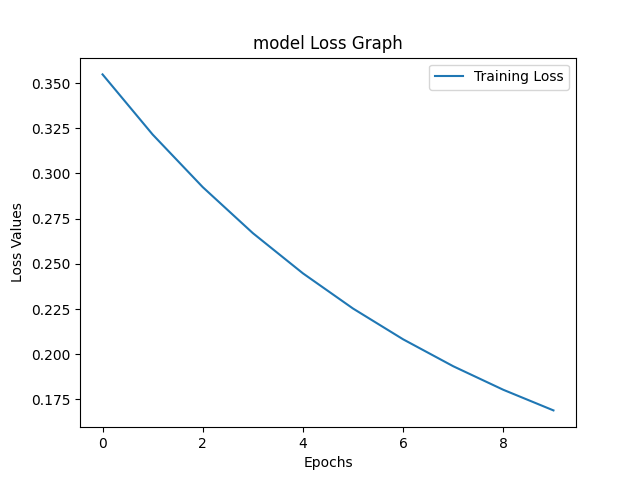
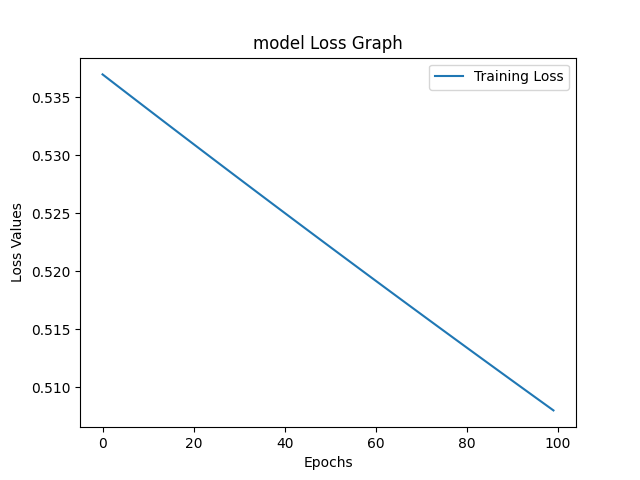
Gradient Descent and Linear Regression addition

diff --git a/Code/LinearRegression/LinearRegression.py b/Code/LinearRegression/LinearRegression.py
@@ -1,0 +1,80 @@
+import torch,warnings,os,matplotlib.pyplot as plt
+import torch.nn as nn
+
+warnings.simplefilter("ignore", UserWarning)
+
+torch.manual_seed(2)
+
+X = torch.rand((10000,3)) # Defining X 
+y = torch.rand((10000,1)) # Defining Y
+
+n_samples,n_features = X.shape
+
+inp_size = n_features
+out_size = n_samples
+
+class LinearRegression(nn.Module):
+    def __init__(self,inputDim,outputDim):
+        super(LinearRegression,self).__init__()
+
+        # Layers
+        self.layer1 = nn.Linear(inputDim, outputDim)
+        self.layer2 = nn.Linear(inputDim, outputDim)
+
+    def forward(self,x):
+        out = self.layer1(x)
+        out = self.layer2(x)
+        return out
+
+model = LinearRegression(inp_size, out_size)
+
+lr = 0.1 # learning rate
+epochs = 20
+
+loss = nn.MSELoss() 
+optimizer = torch.optim.SGD(model.parameters(),lr=lr)
+
+def train(y,loss_val = []):
+    """Train loop for our model
+
+    Args:
+        y (Tensor): Prediction labels
+        loss_val (list, optional): A list to append all the loss values. Defaults to []
+
+    Returns:
+        list: loss values for plotting
+    """
+    for epoch in range(epochs):
+        y_hat = model(X) # predictions
+        l = loss(y,y_hat) # loss calculation
+        # grad = gradients(X,Y,y_hat) # gradient calculation
+        l.backward()
+
+        # Upadting the weights
+        optimizer.step()
+
+        # Zero gradients
+        optimizer.zero_grad()
+
+        print ("epoch #",epoch)
+        print ("loss: ", l.item())
+        loss_val.append(l.item())
+    return loss_val
+
+def plotGraph( data):
+    """A funtion to plot the graph
+
+    Args:
+        data (list): An input list to plot the graph.
+    """
+    plt.plot(data, label="Training Loss")
+    plt.legend()
+    plt.title(f'model {"Loss Graph"}')
+    plt.ylabel("Loss Values")
+    plt.xlabel('Epochs')
+    plt.show(block=False)
+    plt.savefig(os.path.dirname(os.path.realpath(__file__))+'/LossGraph.png')
+    plt.pause(3)
+    plt.close()
+
+plotGraph(train(y))

diff --git a/Code/GradientDescent/GradientDescent.py b/Code/GradientDescent/GradientDescent.py
@@ -1,4 +1,4 @@
-# Linear Regeression from scratch
+# Logistic Regeression from scratch
 import torch
 import matplotlib.pyplot as plt
 import os
@@ -36,7 +36,7 @@ def gradients(x,y,y_hat):
 print(f'Prediction before training: {forward(5):.4f}')
 
 lr = 0.1 # learning rate
-epochs = 10
+epochs = 100
 loss_val,acc_val = [],[]
 for epoch in range(epochs):
     y_hat = forward(X) # predictions
@@ -51,7 +51,7 @@ for epoch in range(epochs):
 
     # Zero gradients
     w.grad.zero_()
-    if epoch % 1 == 0:
+    if epoch % 10 == 0:
         loss_val.append(l.item())
         print(f'Epoch {epoch +1}: w = {w:.3f}, loss: {l:.8f}')
     
